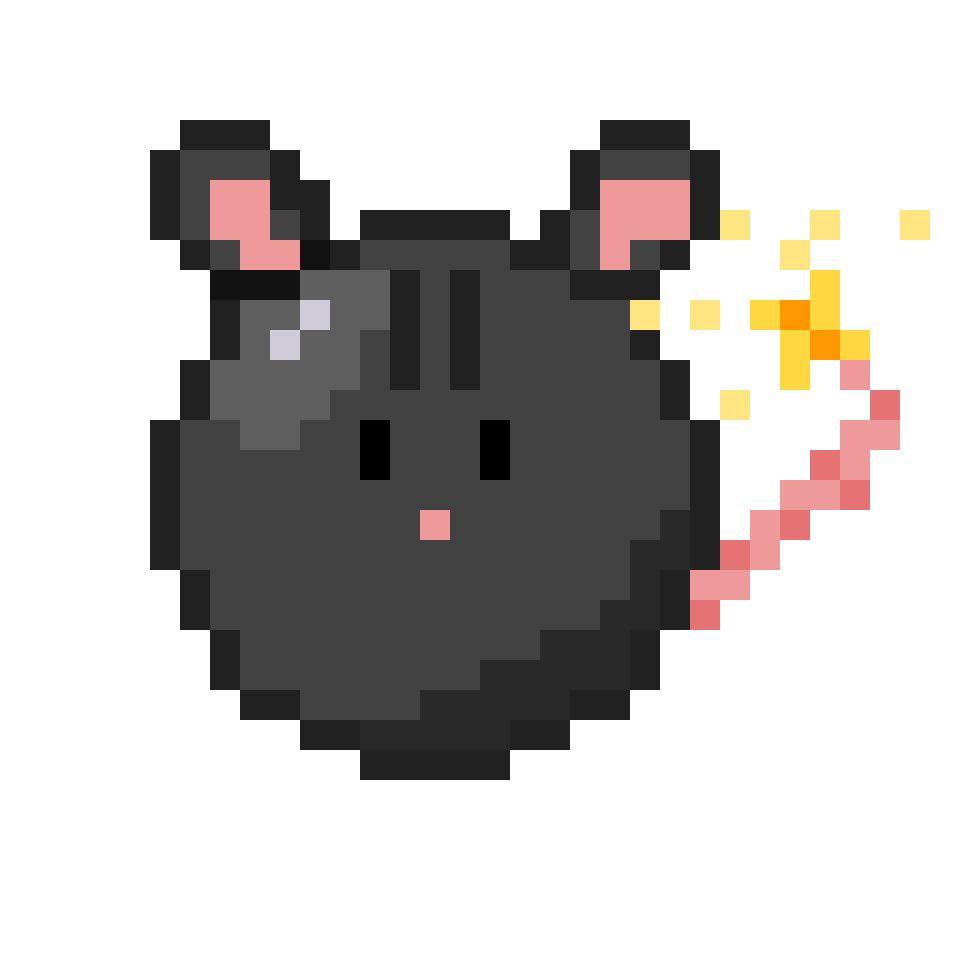
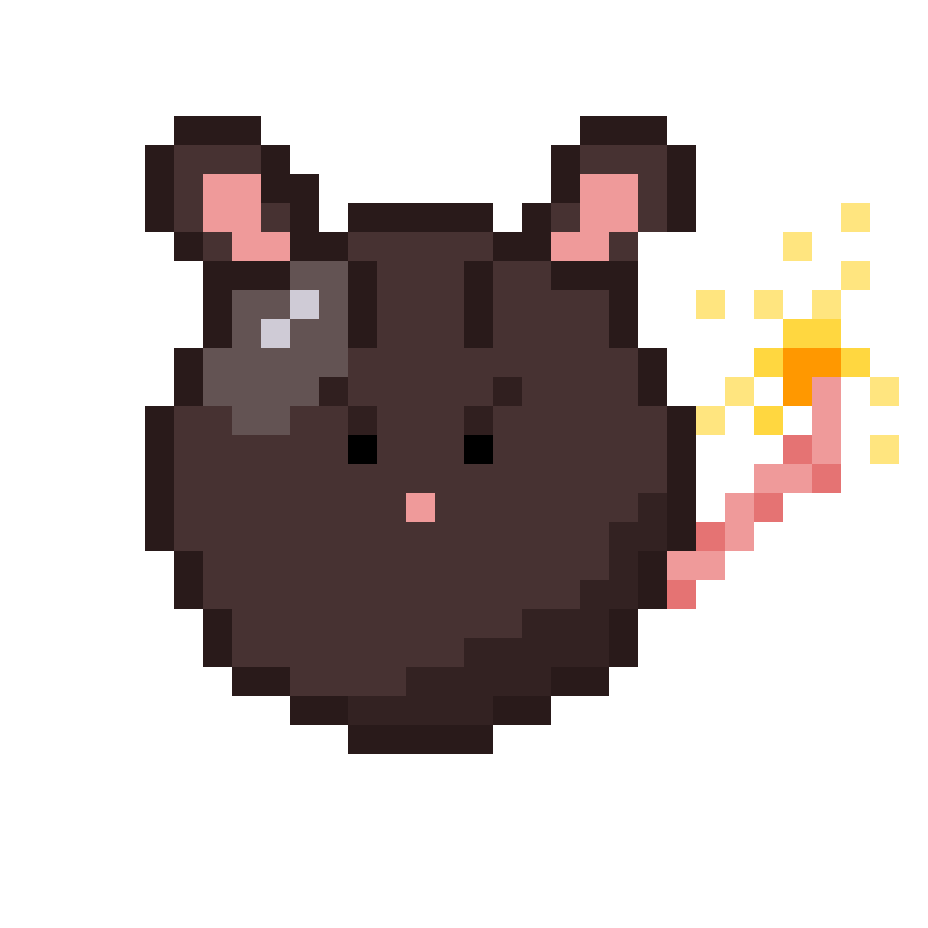
edited bomb images and assigned in class

diff --git a/src/main/java/com/example/jewelchase230/items/Bomb.java b/src/main/java/com/example/jewelchase230/items/Bomb.java
@@ -14,6 +14,10 @@ public class Bomb extends Item {
 
     /** The bomb image. */
     private static final String BOMB_IMAGE = "images/BOMB.png";
+    private static final String BOMB_COUNTDOWN_3 = "images/BOMB_3.png";
+    private static final String BOMB_COUNTDOWN_2 = "images/BOMB_2.png";
+    private static final String BOMB_COUNTDOWN_1 = "images/BOMB_1.png";
+
 
     /** The time until the bomb explodes. */
     private int time;
